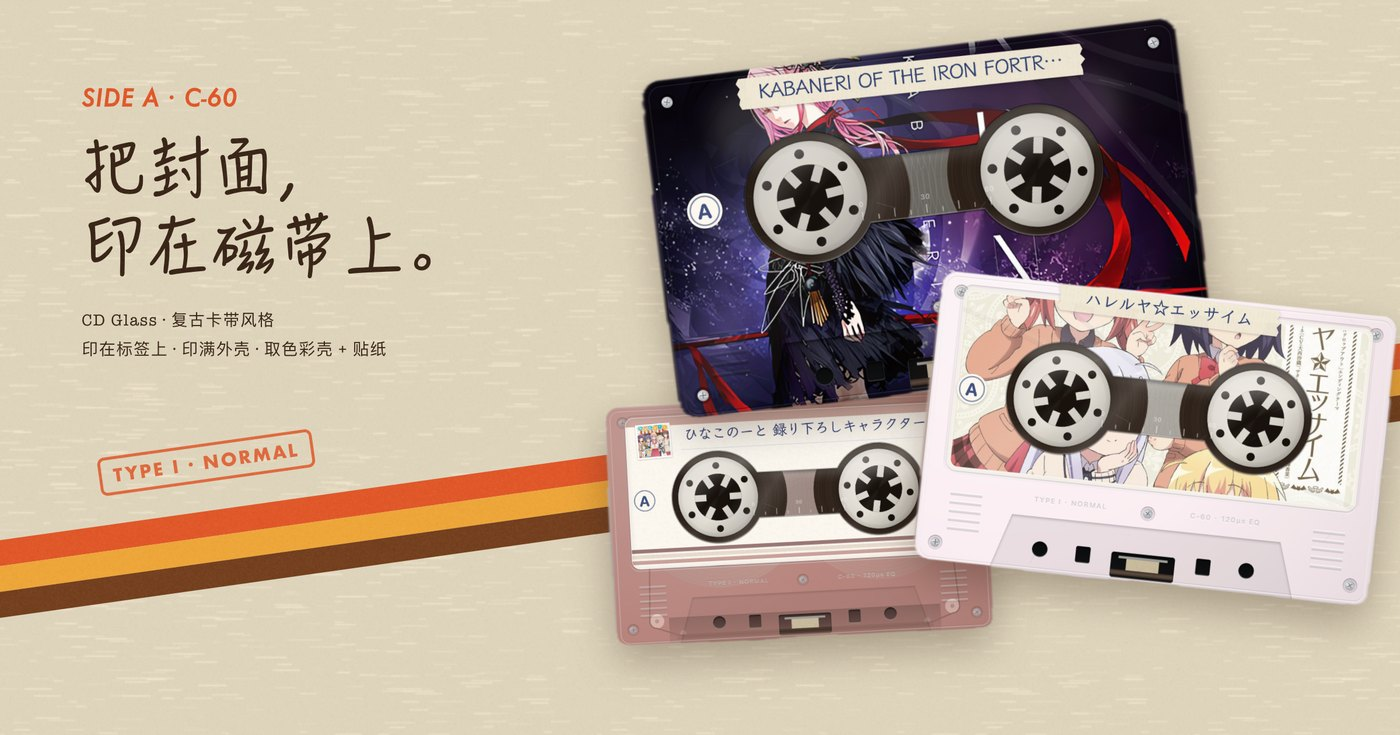
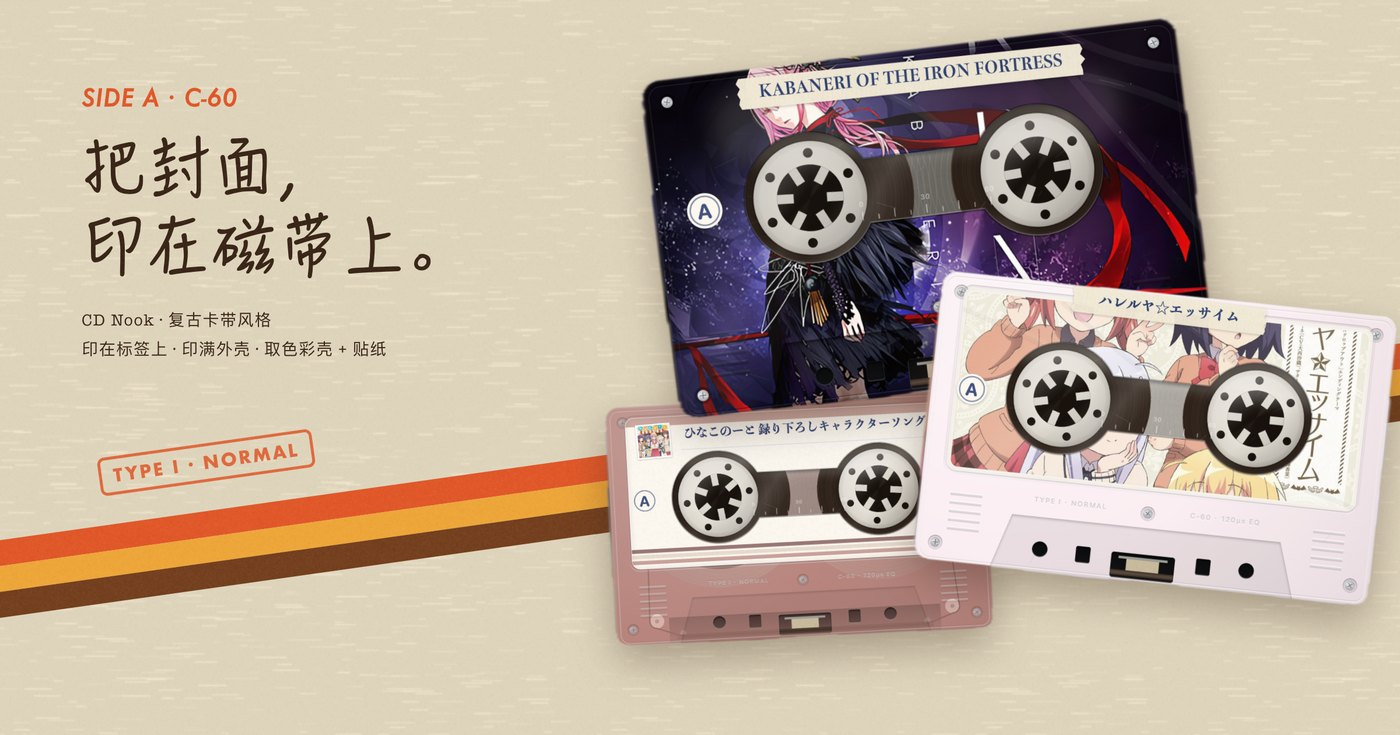
Add MIT license; re-shoot README media for CD Nook
LICENSE is MIT for the CD Nook code; VLC, Real-ESRGAN and the anime title
index keep their own licenses, and album artwork (screenshots, the bundled
idle sleeve) stays with its owners. The README images and GIFs are re-shot
on the current build: CD NOOK on the pixel housing, Toppan Bunkyu Midashi
Mincho on the cassette, 封面柔焦 · 清晰 backgrounds. New icon-led social
preview card.

diff --git a/README.md b/README.md
@@ -12,7 +12,7 @@
   <img alt="Apple silicon" src="https://img.shields.io/badge/Apple%20silicon-arm64-555">
   <img alt="Objective-C" src="https://img.shields.io/badge/Objective--C-AppKit%20%2B%20Core%20Animation-3a7bd5">
   <img alt="VLC" src="https://img.shields.io/badge/VLC-3.0.21%20bundled-ff8800">
-  <img alt="version" src="https://img.shields.io/badge/version-0.12.4-6e56cf">
+  <img alt="version" src="https://img.shields.io/badge/version-0.12.5-6e56cf">
 </p>
 
 <p align="center">
@@ -136,8 +136,8 @@ tests/snapshot.sh /tmp/shots "<音乐文件夹>" PLAN="size:1920x1080 style:2 lo
 - 番剧名称索引来自 [AnimeGarden bgmd](https://github.com/AnimeGarden/bgmd)（MIT）与 Bangumi 海报地址，见 `data/README.md`。
 - 在线封面候选来自 MusicBrainz / Cover Art Archive、Apple Music、萌娘百科与 Wikipedia 的公开接口。
 
-截图与演示视频中出现的专辑封面（《甲铁城的卡巴内利》《珈百璃的堕落》《初音未来》《雏子的笔记》等）版权归各自权利方所有，仅用于展示播放效果。
+截图、演示视频和应用内启动封面（`icon/IdleCover.jpg`）中出现的专辑封面（《甲铁城的卡巴内利》《珈百璃的堕落》《初音未来》《雏子的笔记》《在下坂本，有何贵干？》等）版权归各自权利方所有，仅用于展示播放效果。
 
 ## 许可证
 
-尚未选定。在仓库加入 `LICENSE` 文件之前，本项目代码保留所有权利；内置的第三方组件按各自的许可证发布。
+本项目代码以 [MIT 许可证](LICENSE) 发布。内置的第三方组件（VLC、Real‑ESRGAN、番剧名称索引）按各自的许可证发布；专辑封面不在 MIT 许可范围内，见上一节与 `LICENSE` 末尾。

diff --git a/README.en.md b/README.en.md
@@ -60,4 +60,4 @@ VLC 3.0.21 (LGPL‑2.1), Real‑ESRGAN ncnn Vulkan (BSD‑3‑Clause), AnimeGard
 
 ## License
 
-Not chosen yet. Until a `LICENSE` file is added, all rights to the CD Nook code are reserved; bundled third‑party components keep their own licenses.
+The CD Nook code is released under the [MIT License](LICENSE). Bundled third‑party components (VLC, Real‑ESRGAN, the anime title index) keep their own licenses, and the album artwork in the screenshots and the bundled idle sleeve (`icon/IdleCover.jpg`) belongs to its respective owners — it is not covered by the MIT License (see the end of `LICENSE`).
